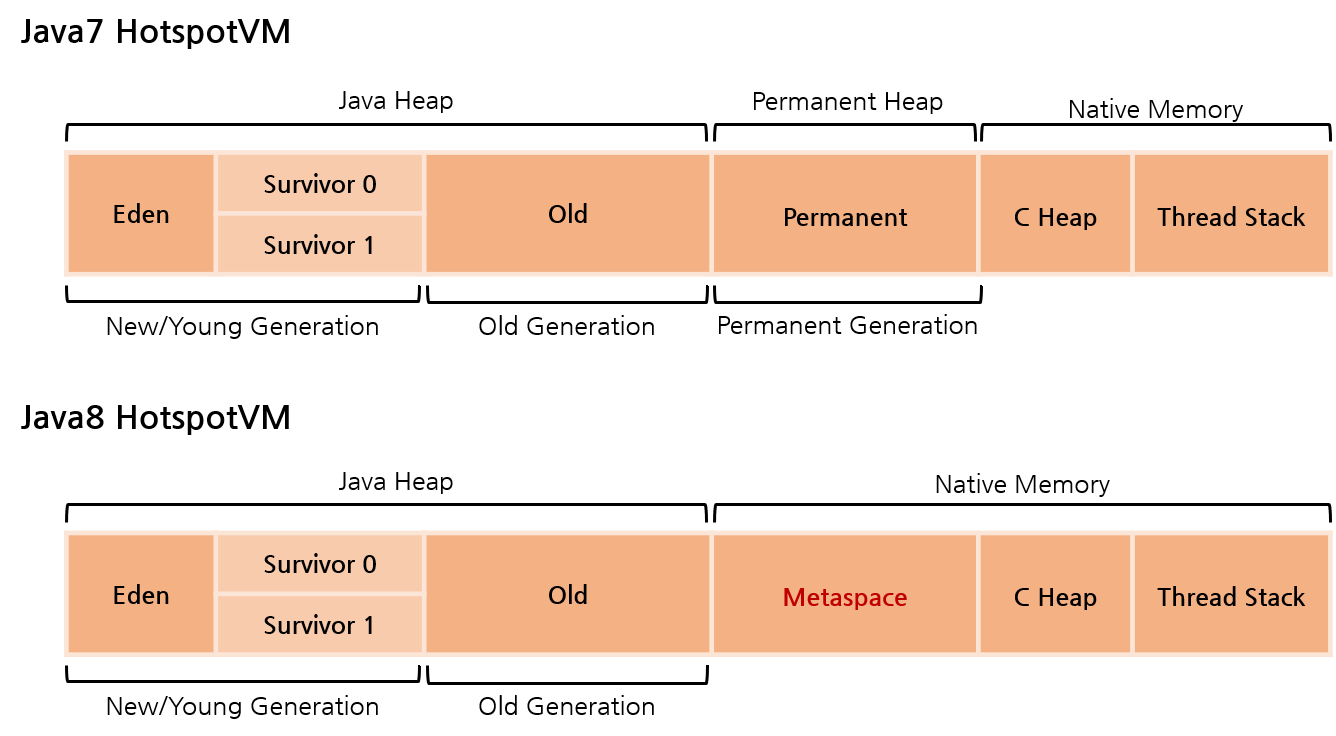
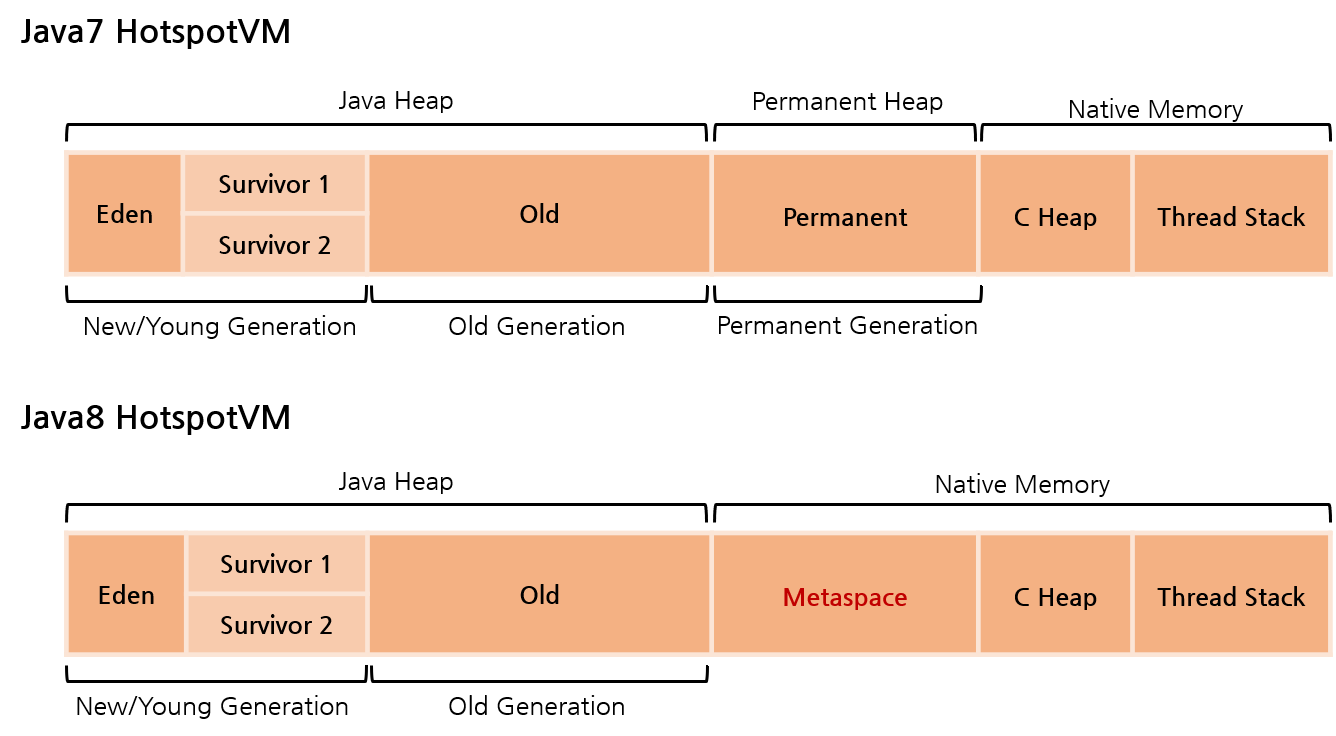
Modify DB/transaction.md & JVM heap image
- transaction.md: </br>추가

diff --git a/DB/transaction.md b/DB/transaction.md
@@ -2,12 +2,18 @@
 
 
 - 트랜잭션은 하나의 논리적 작업을 수행하는 DB 연산의 순서
+
 - 데이터베이스 프로그램의 수행(논리적) 단위
+
+  </br>
 
 ## Two main issues to deal with
 
 1. HW/SW/Transaction failures → Recovery (회복기능)
+
 2. Concurrency (동시성 제어 기능)
+
+   </br>
 
 ## 트랜잭션은 ACID 성질을 가져야 한다.
 
@@ -15,15 +21,20 @@
 데이터베이스 무결성을 유지하기 위함
 
 - **A**tomicity
-→ 전체를 수행하거나 아예 안하거나
+  → 전체를 수행하거나 아예 안하거나
+
 - **C**onsistency
-→ 단일 트랜잭션 수행 시 데이터 무결정을 유지
-→ 트랜잭션 시작 시 무결성제약을 만족하고 있으면 종료시에도 만족해야함
-→ **하지만 수행 중간에는 만족하지 않을 수도 있다(끝에만 만족하면 됨)**
+  → 단일 트랜잭션 수행 시 데이터 무결정을 유지
+  → 트랜잭션 시작 시 무결성제약을 만족하고 있으면 종료시에도 만족해야함
+  → **하지만 수행 중간에는 만족하지 않을 수도 있다(끝에만 만족하면 됨)**
+
 - **I**solation
-→ 여러 트랜잭션이 동시 수행되어도 독립적으로 수행되게 느끼게끔
+  → 여러 트랜잭션이 동시 수행되어도 독립적으로 수행되게 느끼게끔
+
 - **D**urability
-→ 시스템 장애가 발생해도 시스템 상태에 변경사항이 반영되어야 함
+  → 시스템 장애가 발생해도 시스템 상태에 변경사항이 반영되어야 함
+
+  </br>
 
 ## 트랜잭션의 직렬 실행
 
@@ -40,9 +51,14 @@
 ![img/transaction.png](img/transaction.png)
 
 - Active
+
 - Partially committed
+
 - Aborted - END
+
 - Committed - END
+
+  </br>
 
 ## 동시 실행
 
@@ -53,3 +69,5 @@
 
 1. 자원 활용성이 증가
 2. 트랜잭션의 평균 응답 시간이 감소
+
+</br>

diff --git a/Language/[Java] JVM (Java Virtual Machine).md b/Language/[Java] JVM (Java Virtual Machine).md
@@ -140,12 +140,11 @@
 > *부가 설명*
 >
 > - JDK 8부터 Permanent Heap 영역이 제거되고, 대신 Metaspace가 Native Memory에 추가됨
->
-> - Perm은 JVM에 의해 크기가 강제되던 영역
->
+>- Perm은 JVM에 의해 크기가 강제되던 영역
 > - Metaspace는 Native memory 영역으로 **OS가 자동으로 크기를 조절**하며, 옵션으로 Metaspace의 크기를 줄일 수도 있다.
-> - 그 결과 기존과 비교해 큰 메모리 영역을 사용할 수 있게 되었다.
+>- 그 결과 기존과 비교해 큰 메모리 영역을 사용할 수 있게 되었다.
 > - JEP 122에서는 JRockit과 Hotspot을 통일시키기 위해 PermGen 영역을 삭제한다고 한다.
+
 </br>
 
 
@@ -153,14 +152,15 @@
 
      **Eden**: 객체들이 최초로 생성되는 공간
 
-     **Survivor 0/1**: Eden에서 참조되는 객체들이 저장되는 공간
+     **Survivor 1/2**: Eden에서 참조되는 객체들이 저장되는 공간
 
-  </br>
+</br>
 
 
   2. **Old(Tenured) Generation**
 
      Young Generation에서 일정시간 이상 참조되고 있고 살아있는 객체들이 저장되는 공간
+
 </br>
 
 
@@ -169,6 +169,7 @@
      생성된 객체들의 정보들이 저장되는 공간으로, **메타데이터 저장 영역**이라고도 한다.
 
      (*클래스의 Meta정보/메소드의 Meta정보, Static 변수와 상수 정보*)
+
 </br>
 
 -----------------
@@ -180,8 +181,6 @@
 </br>
 
 </br>
-
-
 
 
 참고: https://asfirstalways.tistory.com/158
